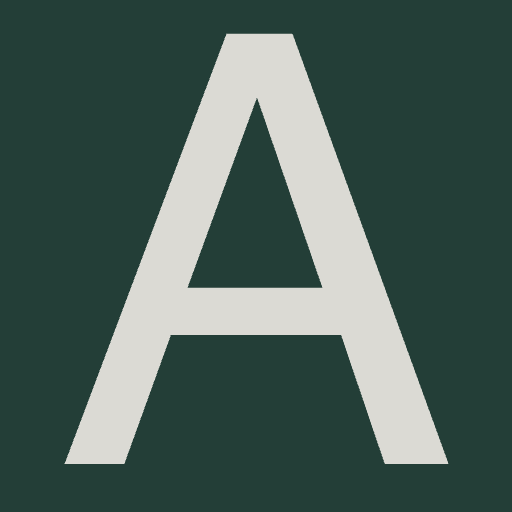
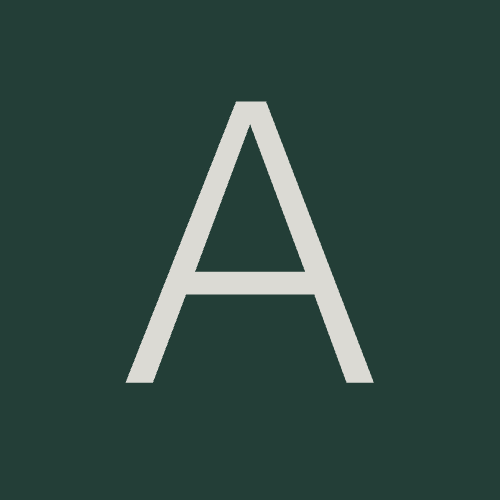
css

Changed region(s): [[0.12, 0.06, 0.87, 0.93]]

diff --git a/quartz/components/scripts/darkmode.inline.ts b/quartz/components/scripts/darkmode.inline.ts
@@ -1,40 +1,64 @@
-const userPref = window.matchMedia("(prefers-color-scheme: light)").matches ? "light" : "dark"
-const currentTheme = localStorage.getItem("theme") ?? userPref
-document.documentElement.setAttribute("saved-theme", currentTheme)
+// Get user preference (or fallback to system's preference)
+const userPref = window.matchMedia("(prefers-color-scheme: light)").matches ? "light" : "dark";
+const currentTheme = localStorage.getItem("theme") ?? userPref;
 
+// Set the theme immediately on the <html> element
+document.documentElement.setAttribute("saved-theme", currentTheme);
+
+// Disable transitions on initial load by adding a class to <html>
+document.documentElement.classList.add("disable-theme-toggle-animation");
+
+// Emit a theme change event
 const emitThemeChangeEvent = (theme: "light" | "dark") => {
   const event: CustomEventMap["themechange"] = new CustomEvent("themechange", {
     detail: { theme },
-  })
-  document.dispatchEvent(event)
-}
+  });
+  document.dispatchEvent(event);
+};
 
+// Initialize the theme toggle after the DOM is ready
 document.addEventListener("nav", () => {
+  // Switch theme when toggle is changed
   const switchTheme = (e: Event) => {
-    const newTheme = (e.target as HTMLInputElement)?.checked ? "dark" : "light"
-    document.documentElement.setAttribute("saved-theme", newTheme)
-    localStorage.setItem("theme", newTheme)
-    emitThemeChangeEvent(newTheme)
-  }
+    const newTheme = (e.target as HTMLInputElement)?.checked ? "dark" : "light";
+    document.documentElement.setAttribute("saved-theme", newTheme);
+    localStorage.setItem("theme", newTheme);
+    emitThemeChangeEvent(newTheme);
+  };
 
+  // Listen for changes in prefers-color-scheme and update theme
   const themeChange = (e: MediaQueryListEvent) => {
-    const newTheme = e.matches ? "dark" : "light"
-    document.documentElement.setAttribute("saved-theme", newTheme)
-    localStorage.setItem("theme", newTheme)
-    toggleSwitch.checked = e.matches
-    emitThemeChangeEvent(newTheme)
-  }
+    const newTheme = e.matches ? "dark" : "light";
+    document.documentElement.setAttribute("saved-theme", newTheme);
+    localStorage.setItem("theme", newTheme);
+    toggleSwitch.checked = e.matches;
+    emitThemeChangeEvent(newTheme);
+  };
 
-  // Darkmode toggle
-  const toggleSwitch = document.querySelector("#darkmode-toggle") as HTMLInputElement
-  toggleSwitch.addEventListener("change", switchTheme)
-  window.addCleanup(() => toggleSwitch.removeEventListener("change", switchTheme))
+  // Darkmode toggle handling
+  const toggleSwitch = document.querySelector("#darkmode-toggle") as HTMLInputElement;
+
+  toggleSwitch.addEventListener("change", switchTheme);
+
+  // Set the initial state of the toggle based on current theme
   if (currentTheme === "dark") {
-    toggleSwitch.checked = true
+    toggleSwitch.checked = true;
   }
 
-  // Listen for changes in prefers-color-scheme
-  const colorSchemeMediaQuery = window.matchMedia("(prefers-color-scheme: dark)")
-  colorSchemeMediaQuery.addEventListener("change", themeChange)
-  window.addCleanup(() => colorSchemeMediaQuery.removeEventListener("change", themeChange))
-})
+  // Listen for system preference changes
+  const colorSchemeMediaQuery = window.matchMedia("(prefers-color-scheme: dark)");
+  colorSchemeMediaQuery.addEventListener("change", themeChange);
+
+  // Immediately update the toggle state based on system preference (if not already set)
+  if (currentTheme === "dark") {
+    toggleSwitch.checked = true;
+  }
+
+  // Ensure transitions are disabled initially, and then re-enable them after load
+  window.onload = () => {
+    // Set the transition state back after page load
+    requestAnimationFrame(() => {
+      document.documentElement.classList.remove("disable-theme-toggle-animation");
+    });
+  };
+});

diff --git a/quartz/components/PageTitle.tsx b/quartz/components/PageTitle.tsx
@@ -13,14 +13,31 @@ const PageTitle: QuartzComponent = ({ fileData, cfg, displayClass }: QuartzCompo
   const baseDir = pathToRoot(fileData.slug!)
   return (
     <div class={classNames(displayClass, "page-title")}>
-      <a  href={baseDir}>{title}</a>
-      <div class="dm-gh">
-        <div class={classNames(displayClass, "darkmode")}>
-          <input class="toggle" id="darkmode-toggle" type="checkbox" tabIndex={-1} />
-          <label id="toggle-label-light" for="darkmode-toggle" tabIndex={-1}>
-            <svg xmlns="http://www.w3.org/2000/svg" width="24" height="24" viewBox="0 0 24 24" fill="none" stroke="currentColor" stroke-width="1" stroke-linecap="round" stroke-linejoin="round" class="lucide lucide-moon"><path d="M12 3a6 6 0 0 0 9 9 9 9 0 1 1-9-9Z" /></svg>
-          </label>
-        </div>
+      <a href={baseDir}>{title}</a>
+      <div>
+
+        <label class="theme-toggle" title="Toggle theme">
+          <input type="checkbox" id="darkmode-toggle" />
+          <span class="theme-toggle-sr">Toggle theme</span>
+          <svg
+            xmlns="http://www.w3.org/2000/svg"
+            aria-hidden="true"
+            width="1.5em"
+            height="1.5em"
+            fill="var(--broader)"
+            class="theme-toggle__expand"
+            viewBox="0 0 32 32"
+          >
+            <clipPath id="theme-toggle__expand__cutout">
+              <path d="M0-11h25a1 1 0 0017 13v30H0Z" />
+            </clipPath>
+            <g clip-path="url(#theme-toggle__expand__cutout)">
+              <circle cx="16" cy="16" r="8.4" />
+              <path d="M18.3 3.2c0 1.3-1 2.3-2.3 2.3s-2.3-1-2.3-2.3S14.7.9 16 .9s2.3 1 2.3 2.3zm-4.6 25.6c0-1.3 1-2.3 2.3-2.3s2.3 1 2.3 2.3-1 2.3-2.3 2.3-2.3-1-2.3-2.3zm15.1-10.5c-1.3 0-2.3-1-2.3-2.3s1-2.3 2.3-2.3 2.3 1 2.3 2.3-1 2.3-2.3 2.3zM3.2 13.7c1.3 0 2.3 1 2.3 2.3s-1 2.3-2.3 2.3S.9 17.3.9 16s1-2.3 2.3-2.3zm5.8-7C9 7.9 7.9 9 6.7 9S4.4 8 4.4 6.7s1-2.3 2.3-2.3S9 5.4 9 6.7zm16.3 21c-1.3 0-2.3-1-2.3-2.3s1-2.3 2.3-2.3 2.3 1 2.3 2.3-1 2.3-2.3 2.3zm2.4-21c0 1.3-1 2.3-2.3 2.3S23 7.9 23 6.7s1-2.3 2.3-2.3 2.4 1 2.4 2.3zM6.7 23C8 23 9 24 9 25.3s-1 2.3-2.3 2.3-2.3-1-2.3-2.3 1-2.3 2.3-2.3z" />
+            </g>
+          </svg>
+        </label>
+
       </div>
     </div>
   )

diff --git a/quartz/styles/base.scss b/quartz/styles/base.scss
@@ -2,6 +2,7 @@
 @use "./syntax.scss";
 @use "./callouts.scss";
 
+
 :root {
   --tx: #100f0f;
   --tx3: #24837B;
@@ -112,7 +113,12 @@ ul {
 body {
   -webkit-font-smoothing: antialiased;
   text-rendering: optimizeLegibility;
-  font-family: -apple-system, BlinkMacSystemFont, "Inter", "IBM Plex Sans", Segoe UI, Helvetica, Arial, sans-serif;
+  font-optical-sizing: auto;
+  // font-family: -apple-system, BlinkMacSystemFont, "Inter", "IBM Plex Sans", Segoe UI, Helvetica, Arial, sans-serif;
+}
+
+body, button {
+  font-family: "Asap", sans-serif;
 }
 
 html {
@@ -157,6 +163,7 @@ ul,
   overflow-wrap: anywhere;
 }
 
+
 .math {
   &.math-display {
     text-align: center;
@@ -168,6 +175,17 @@ a:hover {
 }
 
 article {
+
+  ::marker {
+    color: color-mix(in srgb, var(--tx) 50%, transparent);
+  }
+
+  li {
+    margin-bottom: 0.5rem;
+    list-style-type: disc;
+  }
+
+
   a {
     &:focus {
       outline: none;
@@ -308,6 +326,8 @@ blockquote {
   border-radius: var(--borderRadius);
 }
 
+
+
 h1,
 h2,
 h3,
@@ -315,6 +335,7 @@ h4,
 h5,
 h6,
 thead {
+  font-family: 'Roboto', sans-serif;
   color: var(--tx);
   font-weight: revert;
   margin-bottom: 0;
@@ -490,7 +511,7 @@ th {
 td,
 th {
   white-space: nowrap;
-  padding: .5vw;
+  padding: .5em .5vw;
 }
 
 tr {

diff --git a/quartz/components/Head.tsx b/quartz/components/Head.tsx
@@ -29,9 +29,12 @@ export default (() => {
           <>
             <link rel="preconnect" href="https://fonts.googleapis.com" />
             <link rel="preconnect" href="https://fonts.gstatic.com" />
-            <link rel="stylesheet" href={googleFontHref(cfg.theme)} />
           </>
         )}
+        <link href="https://fonts.googleapis.com/css2?family=Asap:ital,wdth,wght@0,75..125,100..900;1,75..125,100..900&display=swap" rel="stylesheet"/>
+        <link href="https://fonts.googleapis.com/css2?family=Roboto:ital,wght@0,100..900;1,100..900&display=swap" rel="stylesheet"/>
+        <link rel="stylesheet" href="https://cdn.jsdelivr.net/npm/theme-toggles@4.10.1/css/expand.min.css"/>
+
         <meta name="viewport" content="width=device-width, initial-scale=1.0" />
         <meta property="og:title" content={title} />
         <meta property="og:description" content={description} />

diff --git a/quartz/components/styles/darkmode.scss b/quartz/components/styles/darkmode.scss
@@ -1,21 +1,3 @@
-/* .darkmode {
-  position: relative;
-
-  & > .toggle {
-    display: none;
-    box-sizing: border-box;
-  }
-
-  & svg {
-    cursor: pointer;
-    position: absolute;
-    width: 30px;
-    height: 30px;
-    top: calc(50% - 10px);
-    transition: opacity 0.1s ease;
-  }
-}
-*/
 
 :root[saved-theme="dark"] {
   color-scheme: dark;
@@ -25,23 +7,3 @@
   color-scheme: light;
 }
 
-
-/*
-:root[saved-theme="dark"] .toggle ~ label {
-  & > #dayIcon {
-    opacity: 0;
-  }
-  & > #nightIcon {
-    opacity: 1;
-  }
-}
-
-:root .toggle ~ label {
-  & > #dayIcon {
-    opacity: 1;
-  }
-  & > #nightIcon {
-    opacity: 0;
-  }
-}
- */

diff --git a/quartz/styles/custom.scss b/quartz/styles/custom.scss
@@ -94,20 +94,7 @@ div#search-icon {
   }
 }
 
-.dm-gh {
-  display: flex;
-  gap: 20px;
-  justify-content: space-between;
 
-  svg {
-    cursor: pointer;
-    color: var(--tx);
-  }
-
-  input {
-    display: none;
-  }
-}
 
 // Links in article
 button#toc {
@@ -154,4 +141,9 @@ button#toc {
 }
 :root[saved-theme=dark] figure.tikzjaxdiagram path {
   filter: invert(1) hue-rotate(180deg);
+}
+
+// for theme toggle
+.disable-theme-toggle-animation .theme-toggle * {
+  transition: none !important;
 }

diff --git a/quartz.config.ts b/quartz.config.ts
@@ -21,8 +21,8 @@ const config: QuartzConfig = {
       fontOrigin: "googleFonts",
       cdnCaching: true,
       typography: {
-        header: "Inter",
-        body: "Inter",
+        header: "Asap",
+        body: "Asap",
         code: "Roboto Mono",
       },
       colors: {
